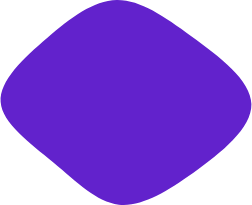
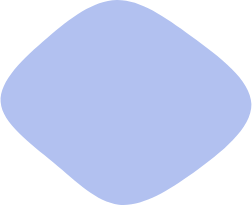
second commit

diff --git a/expo jmti/index.html b/expo jmti/index.html
@@ -4,13 +4,12 @@
 <head>
     <meta charset="utf-8">
     <title>Expo - JMTI</title>
-    <link rel="shortcut icon" type="image/jpg" href="img/Lambang_ITK.png"/>
     <meta content="width=device-width, initial-scale=1.0" name="viewport">
     <meta content="" name="keywords">
     <meta content="" name="description">
 
     <!-- Favicon -->
-    <link href="img/favicon.ico" rel="icon">
+    <link rel="shortcut icon" type="image/jpg" href="img/Lambang_ITK.png"/>
 
     <!-- Google Web Fonts -->
     <link rel="preconnect" href="https://fonts.googleapis.com">
@@ -58,8 +57,8 @@
                     <div class="navbar-nav mx-auto py-0">
                         <a href="index.html" class="nav-item nav-link active">Home</a>
                         <a href="about.html" class="nav-item nav-link">About</a>
-                        <a href="service.html" class="nav-item nav-link">Service</a>
-                        <a href="project.html" class="nav-item nav-link">Project</a>
+                        <!-- <a href="service.html" class="nav-item nav-link">Service</a> -->
+                        <a href="project.html" class="nav-item nav-link">Jobs</a>
                         <div class="nav-item dropdown">
                             <a href="#" class="nav-link dropdown-toggle" data-bs-toggle="dropdown">Pages</a>
                             <div class="dropdown-menu m-0">
@@ -86,7 +85,7 @@
                             <!-- <a href="" class="btn btn-light py-sm-3 px-sm-5 rounded-pill animated slideInRight">Contact Us</a> -->
                         </div>
                         <div class="col-lg-6 text-center text-lg-start">
-                            <img class="img-fluid animated zoomIn" src="img/hero.png" alt="">
+                            <img class="img-fluid animated zoomIn" src="img/tema1.png" alt="">
                         </div>
                     </div>
                 </div>
@@ -94,6 +93,58 @@
         </div>
         <!-- Navbar & Hero End -->
 
+        <!-- Start Theme -->
+        <div class="container-xxl py-5">
+            <div class="container py-5 px-lg-5">
+                <div class="row g-5 align-items-center">
+                    <div class="col-lg-6 wow fadeInUp" data-wow-delay="0.1s">
+                        <p class="section-title text-secondary">Economics Problem<span></span></p>
+                        <h1 class="mb-5">Inflansi, Pengganguran, dan Kesenjangan Ekonomi</h1>
+                        <p class="mb-4">
+                            Inflasi, pengangguran, dan kesenjangan ekonomi adalah tiga masalah ekonomi yang signifikan di Indonesia. Inflasi dapat mempengaruhi tingkat kemiskinan dan pengangguran, serta daya beli masyarakat. Pengangguran dapat menyebabkan peningkatan tingkat kemiskinan dan menurunkan pendapatan pemerintah. Kesenjangan ekonomi dapat menyebabkan ketidakstabilan sosial dan politik serta menurunkan pertumbuhan ekonomi. Para pembuat kebijakan perlu mengatasi masalah-masalah ini untuk memastikan pertumbuhan ekonomi yang stabil dan masyarakat memiliki akses terhadap kebutuhan dasar.                        <div class="skill mb-4">
+                            <div class="d-flex justify-content-between">
+                                <p class="mb-2">Persentasi Inflansi Jan-Dec 2022</p>
+                                <p class="mb-2">4,20%</p>
+                            </div>
+                            <div class="progress">
+                                <div class="progress-bar bg-primary" role="progressbar" aria-valuenow="4.2" aria-valuemin="0" aria-valuemax="100"></div>
+                            </div>
+                        </div>
+                        <div class="skill mb-4">
+                            <div class="d-flex justify-content-between">
+                                <p class="mb-2">Unemployment rate in Indonesia, August 2022</p>
+                                <p class="mb-2">5,85%</p>
+                            </div>
+                            <div class="progress">
+                                <div class="progress-bar bg-secondary" role="progressbar" aria-valuenow="6" aria-valuemin="0" aria-valuemax="100"></div>
+                            </div>
+                        </div>
+                        <div class="skill mb-4">
+                            <div class="d-flex justify-content-between">
+                                <p class="mb-2">Proporsi Kepemilikan Aset Kekayaan Populasi Kelas Atas di Indonesia (2001-2021)</p>
+                                <p class="mb-2">60,41%</p>
+                            </div>
+                            <div class="progress">
+                                <div class="progress-bar bg-dark" role="progressbar" aria-valuenow="60.4" aria-valuemin="0" aria-valuemax="100"></div>
+                            </div>
+                        </div>
+                        <div class="skill mb-4">
+                            <div class="d-flex justify-content-between">
+                                <p class="mb-2">Proporsi Kepemilikan Aset Kekayaan Populasi Kelas Bawah di Indonesia (2001-2021)</p>
+                                <p class="mb-2">4,59%</p>
+                            </div>
+                            <div class="progress">
+                                <div class="progress-bar bg-dark" role="progressbar" aria-valuenow="4.5" aria-valuemin="0" aria-valuemax="100"></div>
+                            </div>
+                        </div>
+                    </div>
+                    <div class="col-lg-6">
+                        <img class="img-fluid wow zoomIn" data-wow-delay="0.6s" src="img/tema2.png" width="500px">
+                    </div>
+                </div>
+            </div>
+        </div>
+        <!-- End Theme About Inflansi, Pengganguran, dan Kesenjangan Ekonomi -->
 
         <!-- Feature Start -->
         <div class="container-xxl py-5">
@@ -101,23 +152,29 @@
                 <div class="row g-4">
                     <div class="col-lg-4 wow fadeInUp" data-wow-delay="0.1s">
                         <div class="feature-item bg-light rounded text-center p-4">
-                            <i class="fa fa-3x fa-mail-bulk text-primary mb-4"></i>
-                            <h5 class="mb-3">Digital Marketing</h5>
-                            <p class="m-0">Erat ipsum justo amet duo et elitr dolor, est duo duo eos lorem sed diam stet diam sed stet lorem.</p>
+                            <img src="img/pelatihan.png" width="70px" class="img-fluid mb-4">
+                            <h5 class="mb-3">Pelatihan dan Pendidikan</h5>
+                            <p class="m-0">
+                                Untuk mengurangi pengangguran, pemerintah dapat berinvestasi dalam program pelatihan dan pendidikan yang mempersiapkan tenaga kerja dengan keterampilan yang dibutuhkan oleh pasar kerja.
+                            </p>
                         </div>
                     </div>
-                    <div class="col-lg-4 wow fadeInUp" data-wow-delay="0.3s">
+                    <div class="col-lg-4 wow fadeInUp" data-wow-delay="0.1s">
                         <div class="feature-item bg-light rounded text-center p-4">
-                            <i class="fa fa-3x fa-search text-primary mb-4"></i>
-                            <h5 class="mb-3">SEO & Backlinks</h5>
-                            <p class="m-0">Erat ipsum justo amet duo et elitr dolor, est duo duo eos lorem sed diam stet diam sed stet lorem.</p>
+                            <img src="img/mitra.png" width="70px" class="img-fluid mb-4">
+                            <h5 class="mb-3">Kemitraan dengan Industri</h5>
+                            <p class="m-0">
+                                ITK menjalin kemitraan yang erat dengan perusahaan teknologi dan industri. Hal ini dapat menciptakan peluang bagi mahasiswa untuk belajar dari praktisi industri, mengakses magang, dan mengidentifikasi peluang pekerjaan langsung setelah lulus.
+                            </p>
                         </div>
                     </div>
-                    <div class="col-lg-4 wow fadeInUp" data-wow-delay="0.5s">
+                    <div class="col-lg-4 wow fadeInUp" data-wow-delay="0.1s">
                         <div class="feature-item bg-light rounded text-center p-4">
-                            <i class="fa fa-3x fa-laptop-code text-primary mb-4"></i>
-                            <h5 class="mb-3">Design & Development</h5>
-                            <p class="m-0">Erat ipsum justo amet duo et elitr dolor, est duo duo eos lorem sed diam stet diam sed stet lorem.</p>
+                            <img src="img/kewirausaan.png" width="70px" class="img-fluid mb-4">
+                            <h5 class="mb-3">Program Kewirausahaan</h5>
+                            <p class="m-0">
+                                ITK mendukung program kewirausahaan yang mengajarkan mahasiswa bagaimana memulai usaha. Ini akan membantu mengurangi pengangguran dengan memberikan peluang kepada lulusan untuk menjadi pengusaha dan menciptakan lapangan kerja bagi orang lain.
+                            </p>                        
                         </div>
                     </div>
                 </div>
@@ -135,33 +192,6 @@
                         <h1 class="mb-5">Jurusan Matematika dan Teknologi Informasi (JMTI)</h1>
                         <p class="mb-4">
                             Jurusan Matematika dan Teknologi Informasi (JMTI) sebagai salah satu dari lima jurusan yang ada di Institut Teknologi Kalimantan yang didirikan pada tahun 2015. JMTI merupakan jurusan terbesar yang memiliki lima program studi yaitu, Matematika, Sistem Informasi, Informatika, Statistika, dan Ilmu Aktuaria dengan jumlah keseluruhan 803 mahasiswa. Pada tahun 2021, JMTI menginisiasi pendirian program studi baru Bisnis Digital.                        </p>
-                        <div class="skill mb-4">
-                            <div class="d-flex justify-content-between">
-                                <p class="mb-2">Digital Marketing</p>
-                                <p class="mb-2">85%</p>
-                            </div>
-                            <div class="progress">
-                                <div class="progress-bar bg-primary" role="progressbar" aria-valuenow="85" aria-valuemin="0" aria-valuemax="100"></div>
-                            </div>
-                        </div>
-                        <div class="skill mb-4">
-                            <div class="d-flex justify-content-between">
-                                <p class="mb-2">SEO & Backlinks</p>
-                                <p class="mb-2">90%</p>
-                            </div>
-                            <div class="progress">
-                                <div class="progress-bar bg-secondary" role="progressbar" aria-valuenow="90" aria-valuemin="0" aria-valuemax="100"></div>
-                            </div>
-                        </div>
-                        <div class="skill mb-4">
-                            <div class="d-flex justify-content-between">
-                                <p class="mb-2">Design & Development</p>
-                                <p class="mb-2">95%</p>
-                            </div>
-                            <div class="progress">
-                                <div class="progress-bar bg-dark" role="progressbar" aria-valuenow="95" aria-valuemin="0" aria-valuemax="100"></div>
-                            </div>
-                        </div>
                         <a href="https://itk.ac.id/jmti-itk/" class="btn btn-primary py-sm-3 px-sm-5 rounded-pill mt-3">Read More</a>
                     </div>
                     <div class="col-lg-6">
@@ -285,7 +315,7 @@
 
 
         <!-- Newsletter Start -->
-        <div class="container-xxl bg-primary newsletter py-5 wow fadeInUp" data-wow-delay="0.1s">
+        <!-- <div class="container-xxl bg-primary newsletter py-5 wow fadeInUp" data-wow-delay="0.1s">
             <div class="container py-5 px-lg-5">
                 <div class="row justify-content-center">
                     <div class="col-lg-7 text-center">
@@ -299,7 +329,7 @@
                     </div>
                 </div>
             </div>
-        </div>
+        </div> -->
         <!-- Newsletter End -->
 
 

diff --git a/expo jmti/project.html b/expo jmti/project.html
@@ -100,7 +100,7 @@
         <div class="container-xxl py-5">
             <div class="container py-5 px-lg-5">
                 <div class="wow fadeInUp" data-wow-delay="0.1s">
-                    <p class="section-title text-secondary justify-content-center"><span></span>Our Projects<span></span></p>
+                    <p class="section-title text-secondary justify-content-center"><span></span>Pekerjaan<span></span></p>
                     <h1 class="text-center mb-5">Prospek Kerja dari Jurusan JMTI</h1>
                 </div>
                 <div class="row mt-n2 wow fadeInUp" data-wow-delay="0.3s">
@@ -122,7 +122,7 @@
                             <div class="position-relative overflow-hidden">
                                 <img class="img-fluid w-100" src="img/programmer.png" >
                                 <div class="portfolio-overlay">
-                                    <a class="btn btn-square btn-outline-light mx-1" href="img/portfolio-1.jpg" data-lightbox="portfolio"><i class="fa fa-eye"></i></a>
+                                    <a class="btn btn-square btn-outline-light mx-1" href="img/programmer.png" data-lightbox="portfolio"><i class="fa fa-eye"></i></a>
                                     <a class="btn btn-square btn-outline-light mx-1" href=""><i class="fa fa-link"></i></a>
                                 </div>
                             </div>
@@ -132,18 +132,18 @@
                             </div>
                         </div>
                     </div>
-                    <div class="col-lg-4 col-md-6 portfolio-item second wow fadeInUp" data-wow-delay="0.3s">
+                    <div class="col-lg-4 col-md-6 portfolio-item first wow fadeInUp" data-wow-delay="0.3s">
                         <div class="rounded overflow-hidden">
                             <div class="position-relative overflow-hidden">
-                                <img class="img-fluid w-100" src="img/portfolio-2.jpg" alt="">
+                                <img class="img-fluid w-100" src="img/cyber-security.jpg" alt="">
                                 <div class="portfolio-overlay">
-                                    <a class="btn btn-square btn-outline-light mx-1" href="img/portfolio-2.jpg" data-lightbox="portfolio"><i class="fa fa-eye"></i></a>
+                                    <a class="btn btn-square btn-outline-light mx-1" href="img/cyber-security.jpg   " data-lightbox="portfolio"><i class="fa fa-eye"></i></a>
                                     <a class="btn btn-square btn-outline-light mx-1" href=""><i class="fa fa-link"></i></a>
                                 </div>
                             </div>
                             <div class="bg-light p-4">
-                                <p class="text-primary fw-medium mb-2">UI / UX Design</p>
-                                <h5 class="lh-base mb-0">Digital Agency Website Design And Development</a>
+                                <p class="text-primary fw-medium mb-2">Cyber Security</p>
+                                <h5 class="lh-base mb-0">Lorem ipsum</a>
                             </div>
                         </div>
                     </div>
@@ -192,18 +192,18 @@
                             </div>
                         </div>
                     </div>
-                    <div class="col-lg-4 col-md-6 portfolio-item second wow fadeInUp" data-wow-delay="0.5s">
+                    <div class="col-lg-4 col-md-6 portfolio-item third fitfth wow fadeInUp" data-wow-delay="0.5s">
                         <div class="rounded overflow-hidden">
                             <div class="position-relative overflow-hidden">
-                                <img class="img-fluid w-100" src="img/portfolio-6.jpg" alt="">
+                                <img class="img-fluid w-100" src="img/dosen.png" alt="">
                                 <div class="portfolio-overlay">
                                     <a class="btn btn-square btn-outline-light mx-1" href="img/portfolio-6.jpg" data-lightbox="portfolio"><i class="fa fa-eye"></i></a>
                                     <a class="btn btn-square btn-outline-light mx-1" href=""><i class="fa fa-link"></i></a>
                                 </div>
                             </div>
                             <div class="bg-light p-4">
-                                <p class="text-primary fw-medium mb-2">UI / UX Design</p>
-                                <h5 class="lh-base mb-0">Digital Agency Website Design And Development</a>
+                                <p class="text-primary fw-medium mb-2">Guru / Dosen</p>
+                                <h5 class="lh-base mb-0">Penggajar</a>
                             </div>
                         </div>
                     </div>

diff --git a/expo jmti/css/style.css b/expo jmti/css/style.css
@@ -366,7 +366,7 @@ h6,
 
 .service-item:hover .service-icon {
     color: var(--dark);
-    background: url(../img/blob-secondary.png) center center no-repeat;
+    background: url(../img/blob-white.png) center center no-repeat;
     background-size: contain;
 }
 
